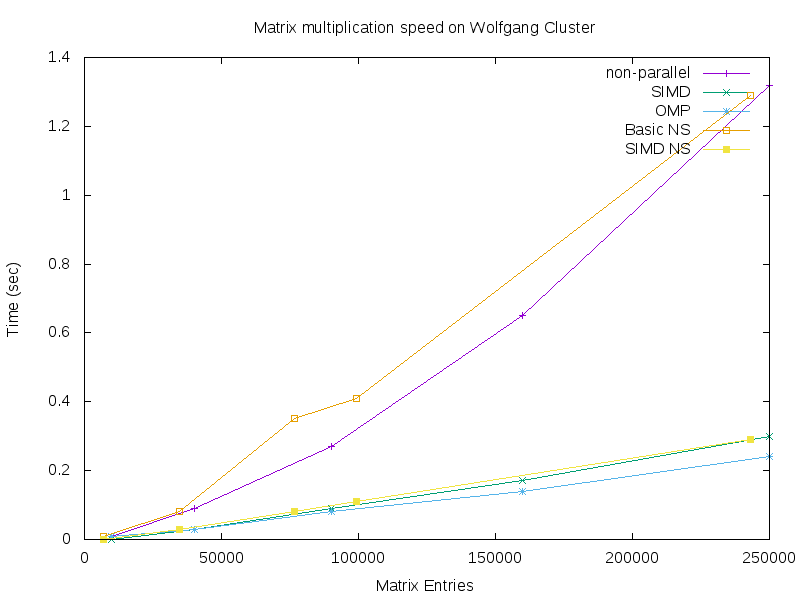
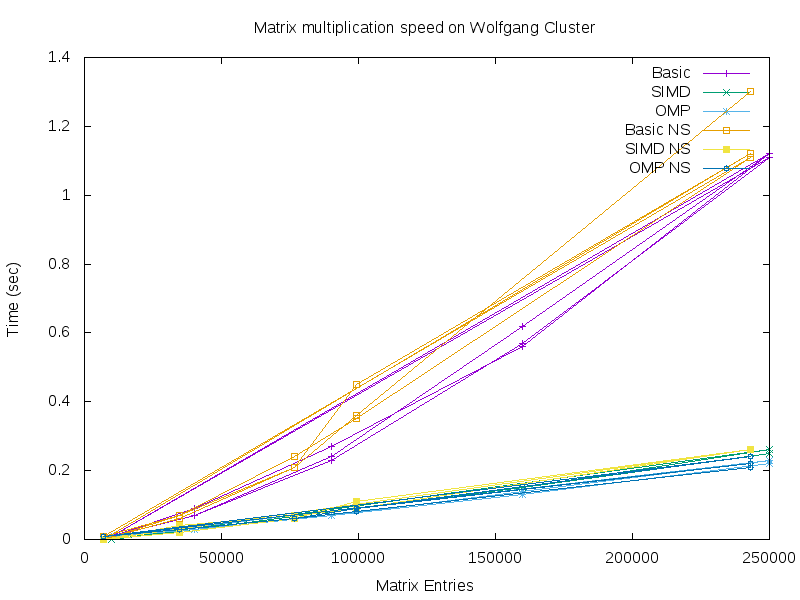
added non-square operations for OpenMP

diff --git a/automation.c b/automation.c
@@ -134,9 +134,27 @@ int main(){
      //printf("%s\n", time_dataSIMD);
 
      //create insertCMD
-     sprintf(insertCMD, "%s\n", time_dataSIMD);
+     sprintf(insertCMD, "%s     ", time_dataSIMD);
      fprintf(graphData, insertCMD);//adds SIMD non-Square time data into file
-  }
+
+     //run OpenMP op non-Square
+     sprintf(omp_op, "time -p ./OMPmmultNS %d %d > Data/ompOpNS%d.txt 2>&1", rand_size, i, i);
+     printf("running ompOp non-square n = %d, m = %d\n", i, rand_size);
+     system(omp_op);
+
+     //extracting data from operation OMP non-Square
+     sprintf(fileName, "Data/ompOpNS%d.txt", i);
+     dataNodeOMP = fopen(fileName, "r");
+     fgets(pull_data, 10, dataNodeOMP);
+     //printf("%s\n", pull_data);
+     fclose(dataNodeOMP);
+     time_dataOmp = strtok(pull_data, " ");
+     time_dataOmp = strtok(NULL, " ");
+     //create insertCMD
+     sprintf(insertCMD, "%s\n", time_dataOmp);
+     fprintf(graphData, insertCMD);
+
+     }
   fclose(graphData);
   system(graphMakeCMD);
   printf("automated runs complete\n");
